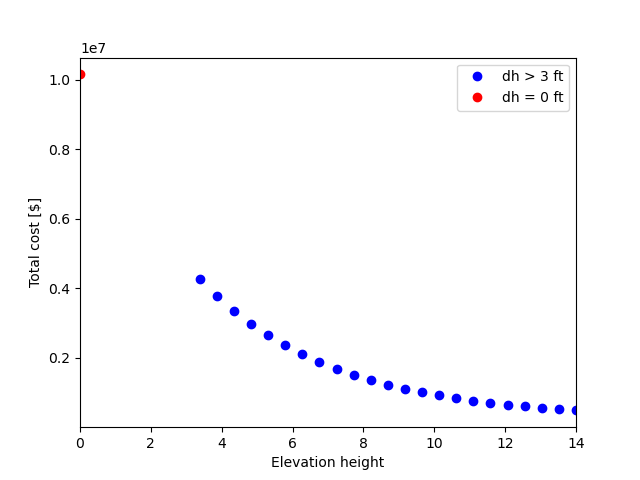
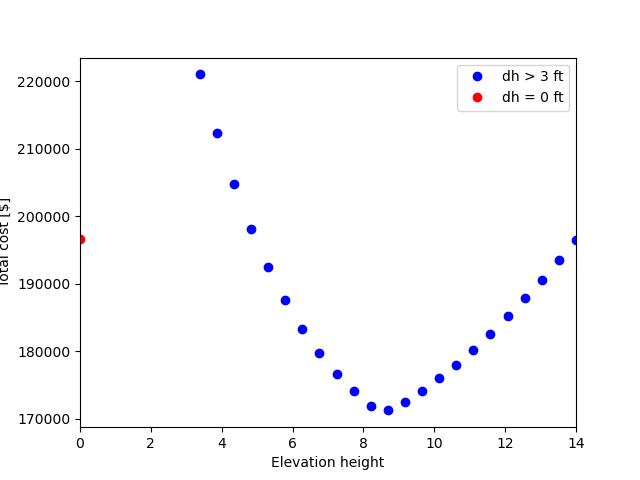
Iteration with different GEV parameters for each year of the house lifetime

diff --git a/adaptive_elev.py b/adaptive_elev.py
@@ -33,8 +33,7 @@ life_span = 30
 dr_i = np.arange(201)
 disc_rate = np.exp(-1 * (0.04 * dr_i))
 bfe = 34.7              # generated in the R code
-# Initial house elev
-init_elev = bfe + del_elev
+init_elev = bfe + del_elev  # Initial house elev
 if verbose: 
     print("House parameters")
     print(f"Structure value: ${struc_value}")
@@ -43,7 +42,7 @@ if verbose:
     print(f"Base flood elevation: {bfe}")
     print(f"Discount rate: {disc_rate}")
 
-# Set GEV parameters (currently using GEV from Zarekarizi et al. 2020 - R code generated)
+# Set deterministic GEV parameters (currently using GEV from Zarekarizi et al. 2020 - R code generated)
 mu = 19.8718901487264
 sigma = 3.16814792683425
 xi = 0.00515921024408503
@@ -96,36 +95,20 @@ def lifetime_expected_damages(struc_value, init_elev, delta_h, life_span, disc_r
     # When c < 0, Frechet-type tail
     # We reshape parameters to (nsow, 1, life_span) to broadcast against crit_depths (1, num_depths, 1)
     # Resulting crit_probs shape: (nsow, num_depths, life_span)
-    crit_probs = 1 - genextreme.cdf(
+    crit_probs = 1 - fast_gev_cdf(
         x=crit_depths[np.newaxis,:,np.newaxis],              # Shape: (1, num_depths, 1)
-        c=-xi[:,np.newaxis,:],        # Shape: (nsow, 1, life_span)
+        c=xi[:,np.newaxis,:],         # Shape: (nsow, 1, life_span)
         loc=mu[:,np.newaxis,:],       # Shape: (nsow, 1, life_span)
         scale=sigma[:,np.newaxis,:]   # Shape: (nsow, 1, life_span)
     )
 
-    # Handles NaNs across the matrix
-    # Math: GEV has a boundary at loc - (scale / c)
-    # Since we use c = -xi, the boundary is at: mu + (sigma / xi)
-    boundary = mu + (sigma / xi)
-    
-    # NEEDS ALTERING
-    # Use np.where to check depths against the theoretical limits of the distribution
-    # If xi > 0 (Weibull/Frechet tail), the distribution is bounded on ONE side.
-    for row in range(nsow):
-        if xi[row] > 0: # Upper bound exists
-            mask_above = crit_depths > boundary[row]
-            crit_probs[row, mask_above] = 0.0
-        elif xi[row] < 0: # Lower bound exists
-            mask_below = crit_depths < boundary[row]
-            crit_probs[row, mask_below] = 1.0
-
-    # Final safety catch for floating point precision issues
+    # NEEDS ALTERING? Final safety catch for floating point precision issues
     crit_probs = np.nan_to_num(crit_probs, nan=0.0)         # shape: (nsow, num_depths, life_span)
 
     # Calculate the expected annual damages (EAD) for each year
     # Note: it is different each year depending on the house value and GEV params
     prob_diffs = -np.diff(crit_probs, axis=1, append=0)     # shape: (nsow, num_depths, life_span)
-    ead = np.sum(prob_diffs * damage_vals, axis=1)    # shape: (nsow, life_span)
+    ead = np.sum(prob_diffs * damage_vals, axis=1)          # shape: (nsow, life_span)
     
     # Apply the year-by-year discount rate
     disc_ead = ead * disc_rate     # shape: (nsow, life_span)*(nsow, life_span)=(nsow, life_span)
@@ -192,7 +175,7 @@ def lifetime_reliability(life_span, mu, sigma, xi, init_elev, delta_h):
 
     # 1. Calculate the probability of being flooded (nsow, life_span)
     # When c < 0, Frechet-type tail
-    prob = genextreme.cdf(x=curr_elev, c=-xi, loc=mu, scale=sigma)
+    prob = fast_gev_cdf(x=curr_elev, c=xi, loc=mu, scale=sigma)
 
     # 2. Create a mask given the life_span of each SOW, replace extra years with value 1
     # Create a mask: True if year < life_span
@@ -218,7 +201,6 @@ def satisficing_all(bcr, reliability, total_cost, struc_val):
     :param struc_val: house value
     """
     return np.array([bcr>1, reliability>0.5, total_cost/struc_val<1])
-
 
 
 ## ------------------------------------------------------------------
@@ -383,6 +365,7 @@ def depth_damage_unc(nsow, ddf_type="deep"):
     return np.vstack((depths, ret_damage))
 
 # 4. Flooding frequency (uncertainty around GEV parameters)
+# The GEV parameters are sampled so that they are different for each year
 def gev_param_unc(nsow, mu_chain, sigma_chain, xi_chain, life_span=200):
     # Number of columns should be life_span+1
     ncol = life_span + 1
@@ -406,12 +389,12 @@ def gev_param_unc(nsow, mu_chain, sigma_chain, xi_chain, life_span=200):
 # Dependent on the intensity of flooding (to be implemented later)
 def house_value_unc(init_value, nsow, delta_h=0, life_span=200, elev_year=0):
     # Dummy values for a deterministic, linear change of house value
-    appr_rate = 0.035   # Appreciation based on attractiveness
+    appr_rate = 0   # Appreciation based on attractiveness
     # risk_rate = -0.04   # Depreciation rate based on flood risk
     # elev_rate = 0.01    # Impact of each foot of elevation
 
     # Sample appreciation rates across nsows
-    rates = rng.normal(loc=appr_rate, scale=0.03, size=nsow)
+    rates = rng.normal(loc=appr_rate, scale=0, size=nsow)
 
     years = np.arange(0, life_span)
     factor = (1 + rates[:, np.newaxis]) ** years    # make rates shape: (nsow, 1), factor shape: (nsow, life_span)
@@ -517,5 +500,17 @@ for i, dh in enumerate(delta_h_seq):
     })
 
 df_results = pd.DataFrame(results)
-df_results.to_csv('objectives_evolve_house_val_35_unc.csv', index=False)
-if verbose: print("\nResults saved to 'objectives_evolve_house_val_2.csv'")
+df_results.to_csv('objectives_evGEV.csv', index=False)
+if verbose: print("\nResults saved to 'objectives_evGEV.csv'")
+
+## ------------------------------------------------------------------
+## DEFINE FUNCTIONS FOR FASTER COMPUTATION
+## ------------------------------------------------------------------
+
+def fast_gev_cdf(x, loc, scale, xi):
+    # Standard GEV formula using NumPy vectorized operations
+    # Note: Using your variable 'xi' directly as the shape param
+    z = (x - loc) / scale
+    # To handle the 1 + xi*z > 0 constraint
+    inner = 1 + xi * z
+    return np.exp(-np.power(np.maximum(inner, 1e-10), -1/xi))

diff --git a/plot.py b/plot.py
@@ -13,7 +13,7 @@ import pandas as pd
 import matplotlib.pyplot as plt
 
 # Read in results csv
-objs = pd.read_csv('objectives_evolve_house_val_35_unc.csv')
+objs = pd.read_csv('objectives.csv')
 
 # Remove points between dh=(0,3]
 objs_3 = objs[objs['dh'] >= 3]
@@ -27,7 +27,7 @@ ax1.plot('upfront_cost', 'reliability', 'ro', data=objs_0, label='dh = 0 ft')
 ax1.set_xlabel('Upfront cost [$]')
 ax1.set_ylabel('Reliability')
 ax1.legend()
-plt.savefig(f'upcost_reliability_pareto_evolve_35_unc')
+plt.savefig(f'upcost_reliability_pareto')
 
 # Plot total cost on the x-axis, reliability on the y-axis
 fig2, ax2 = plt.subplots()
@@ -36,7 +36,7 @@ ax2.plot('total_cost', 'reliability', 'ro', data=objs_0, label='dh = 0 ft')
 ax2.set_xlabel('Total cost [$]')
 ax2.set_ylabel('Reliability')
 ax2.legend()
-plt.savefig(f'totcost_reliability_pareto_evolve_35_unc')
+plt.savefig(f'totcost_reliability_pareto')
 
 # Plot NPV of total costs for different heightening strategies
 fig3, ax3 = plt.subplots()
@@ -46,4 +46,4 @@ ax3.plot('dh', 'total_cost', 'ro', data=objs_0, label='dh = 0 ft')
 ax3.set_ylabel('Total cost [$]')
 ax3.set_xlabel('Elevation height')
 ax3.legend()
-plt.savefig(f'height_totcost_evolve_35_unc')
+plt.savefig(f'height_totcost')